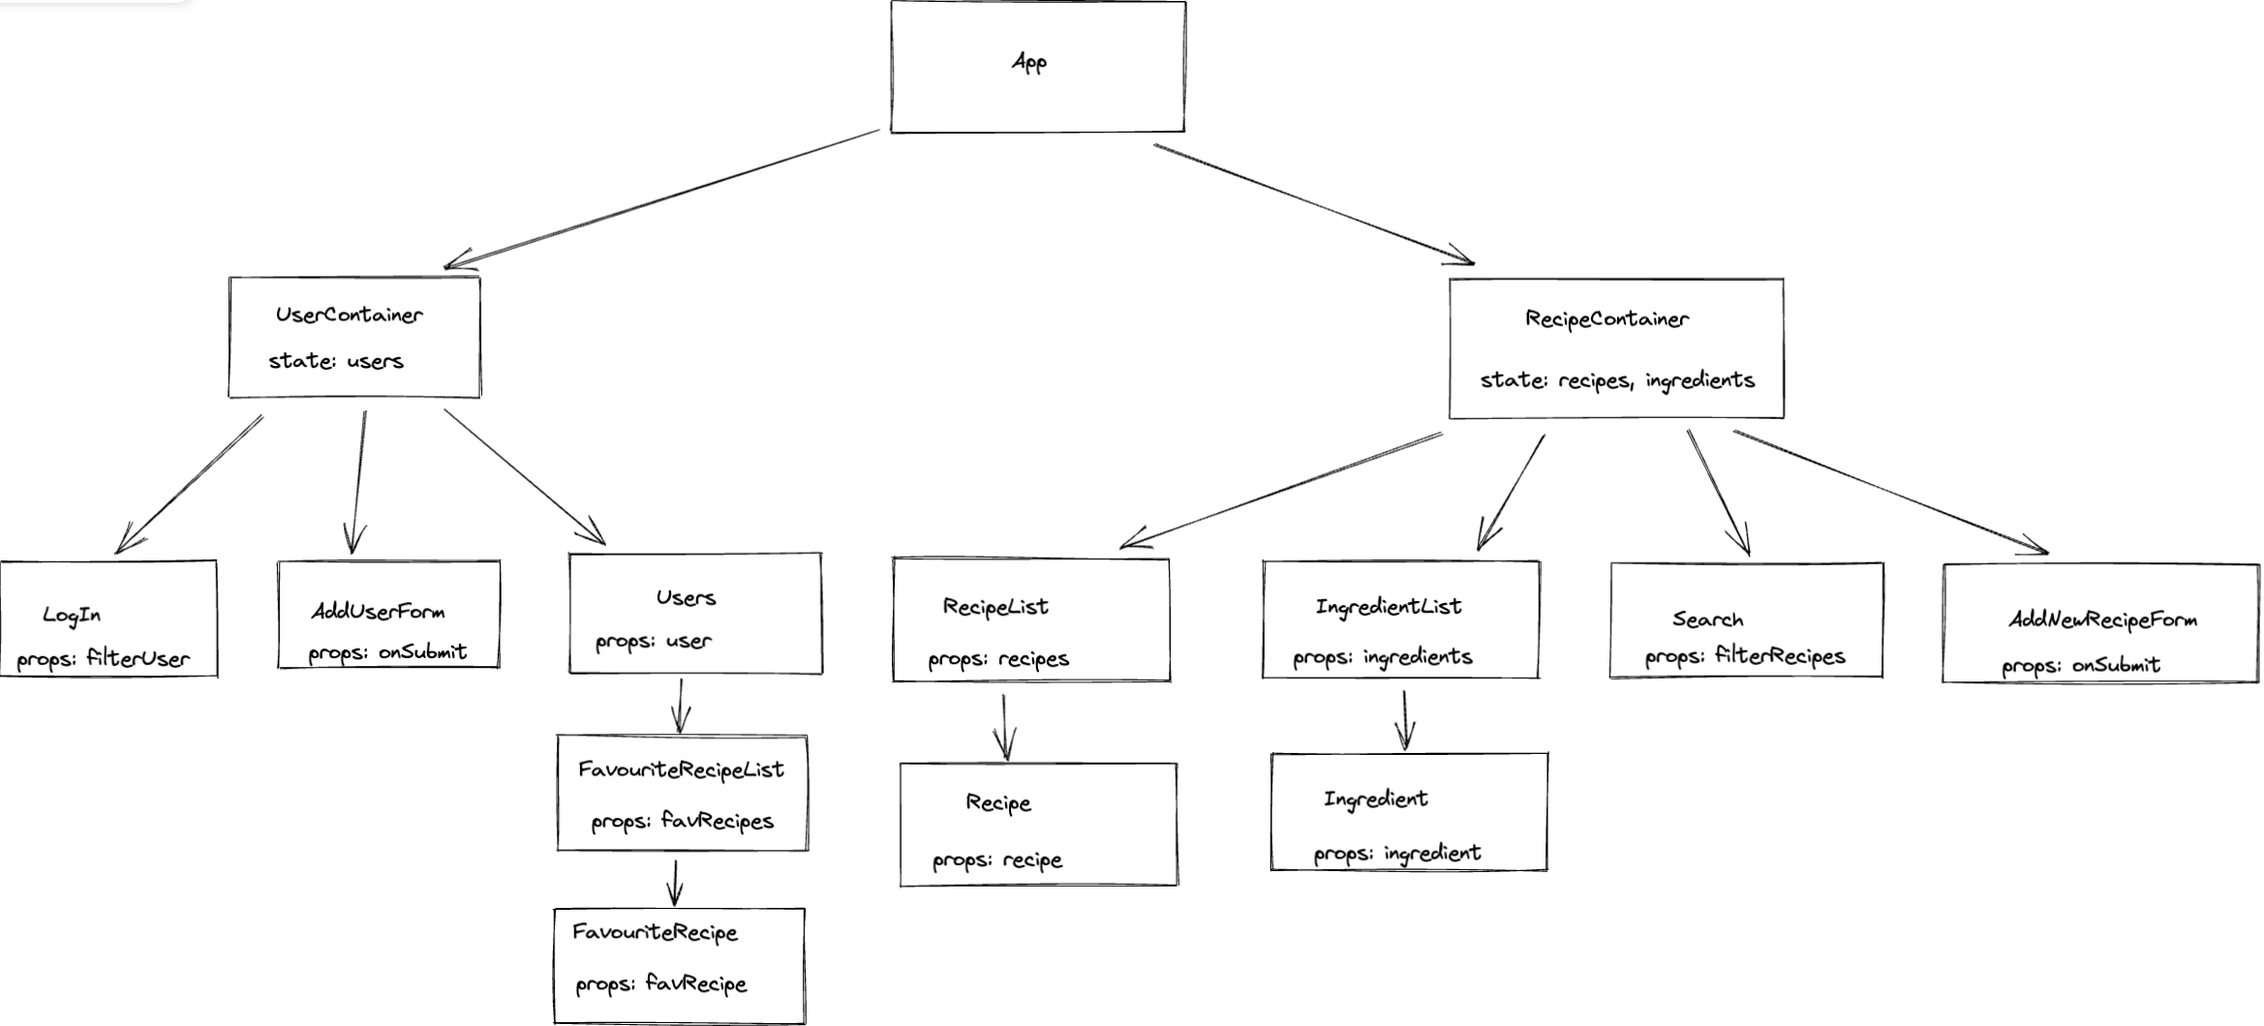
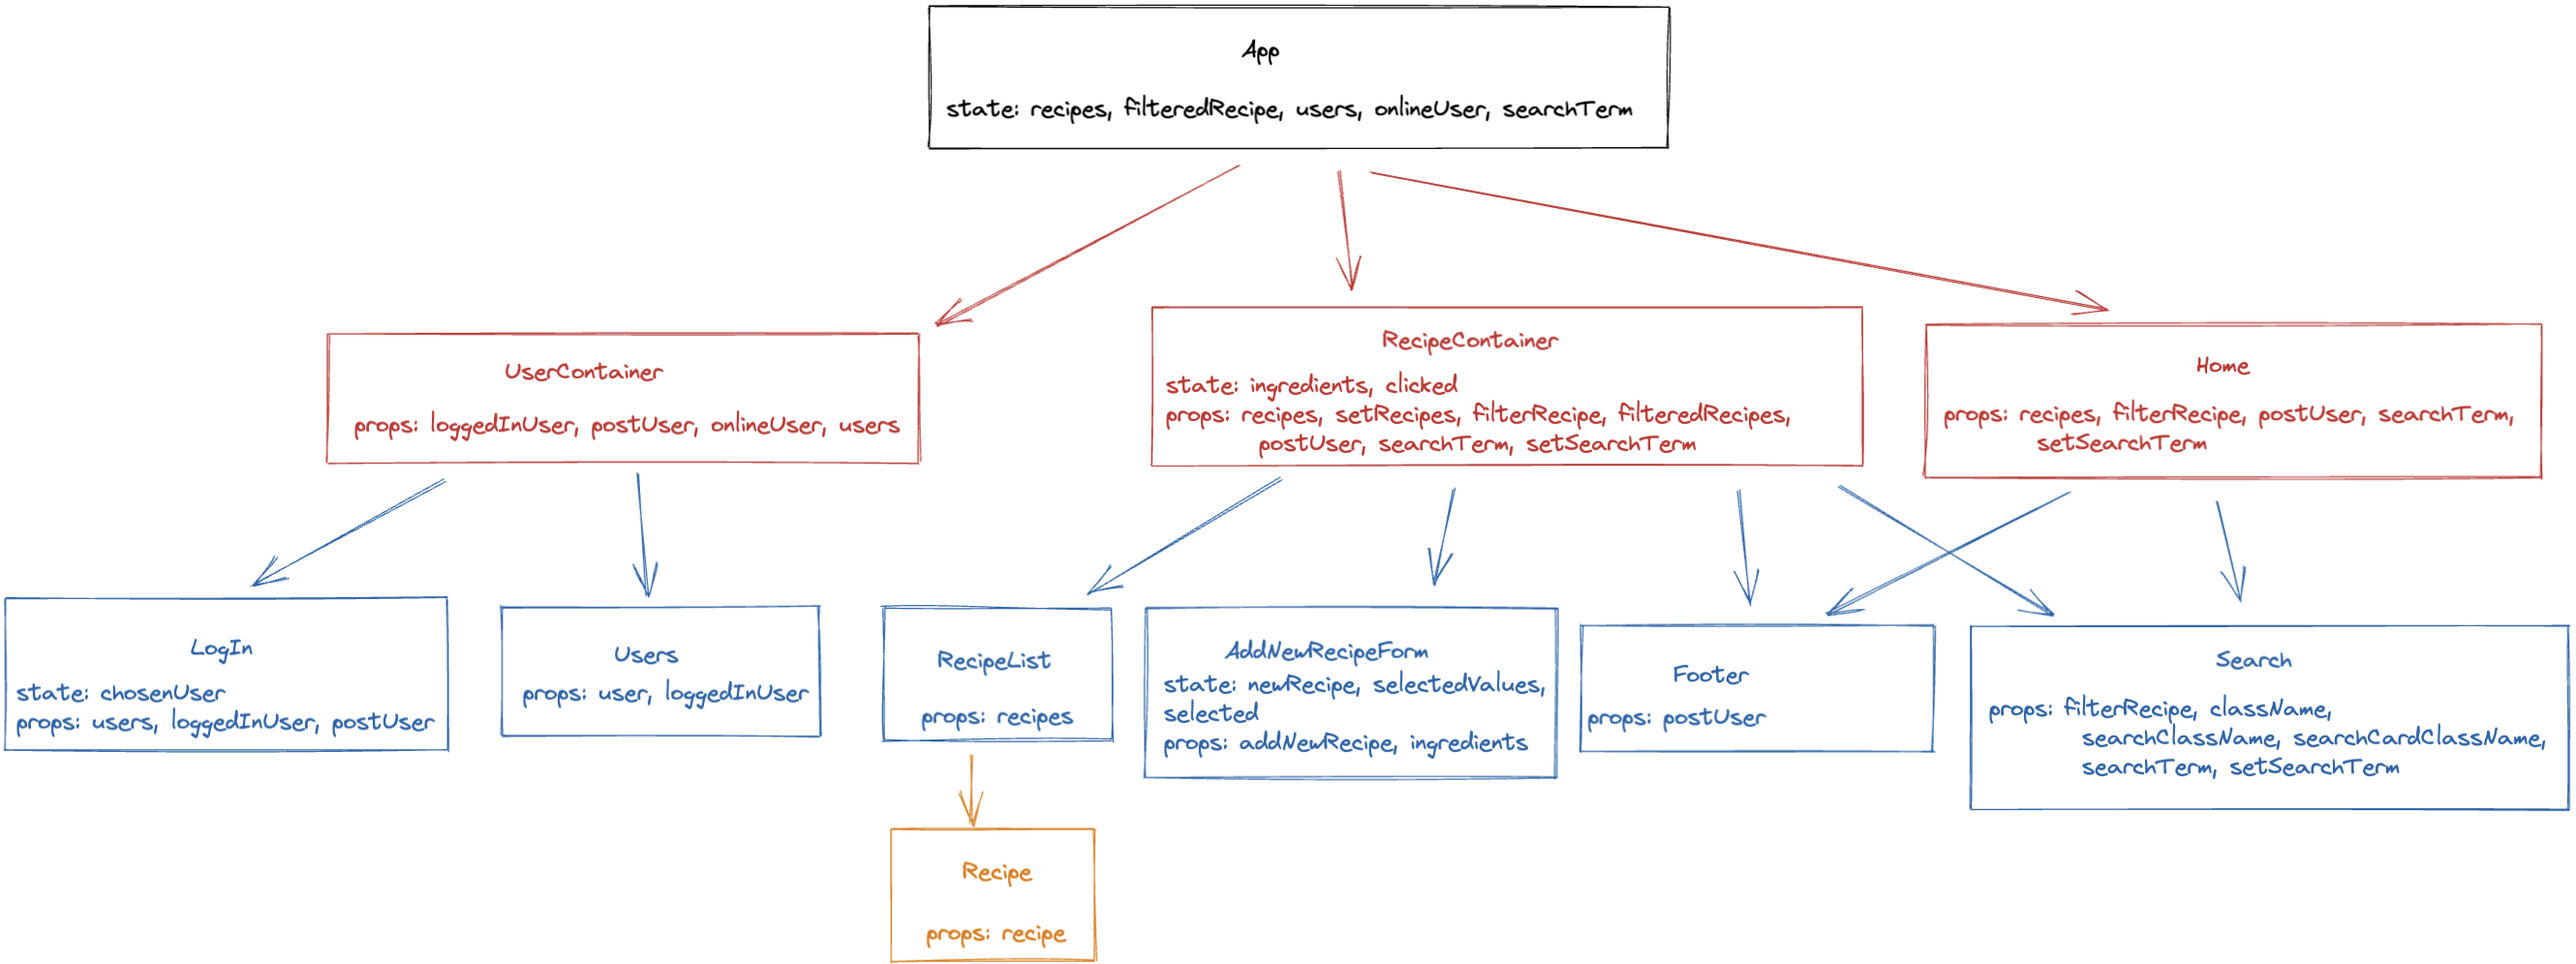
add diagram and wireframes

diff --git a/README.md b/README.md
@@ -52,7 +52,7 @@ As part of the Bright Network Technology Academy, we were assigned a group proje
 ## **Project Structure:**
 This project is structured as below.
 
-### **Component Diagram:**
+### **Component Diagrams:**
 ![Alt](/component_diagram.png "Component Diagram")
 
 ### **Wireframes:**
